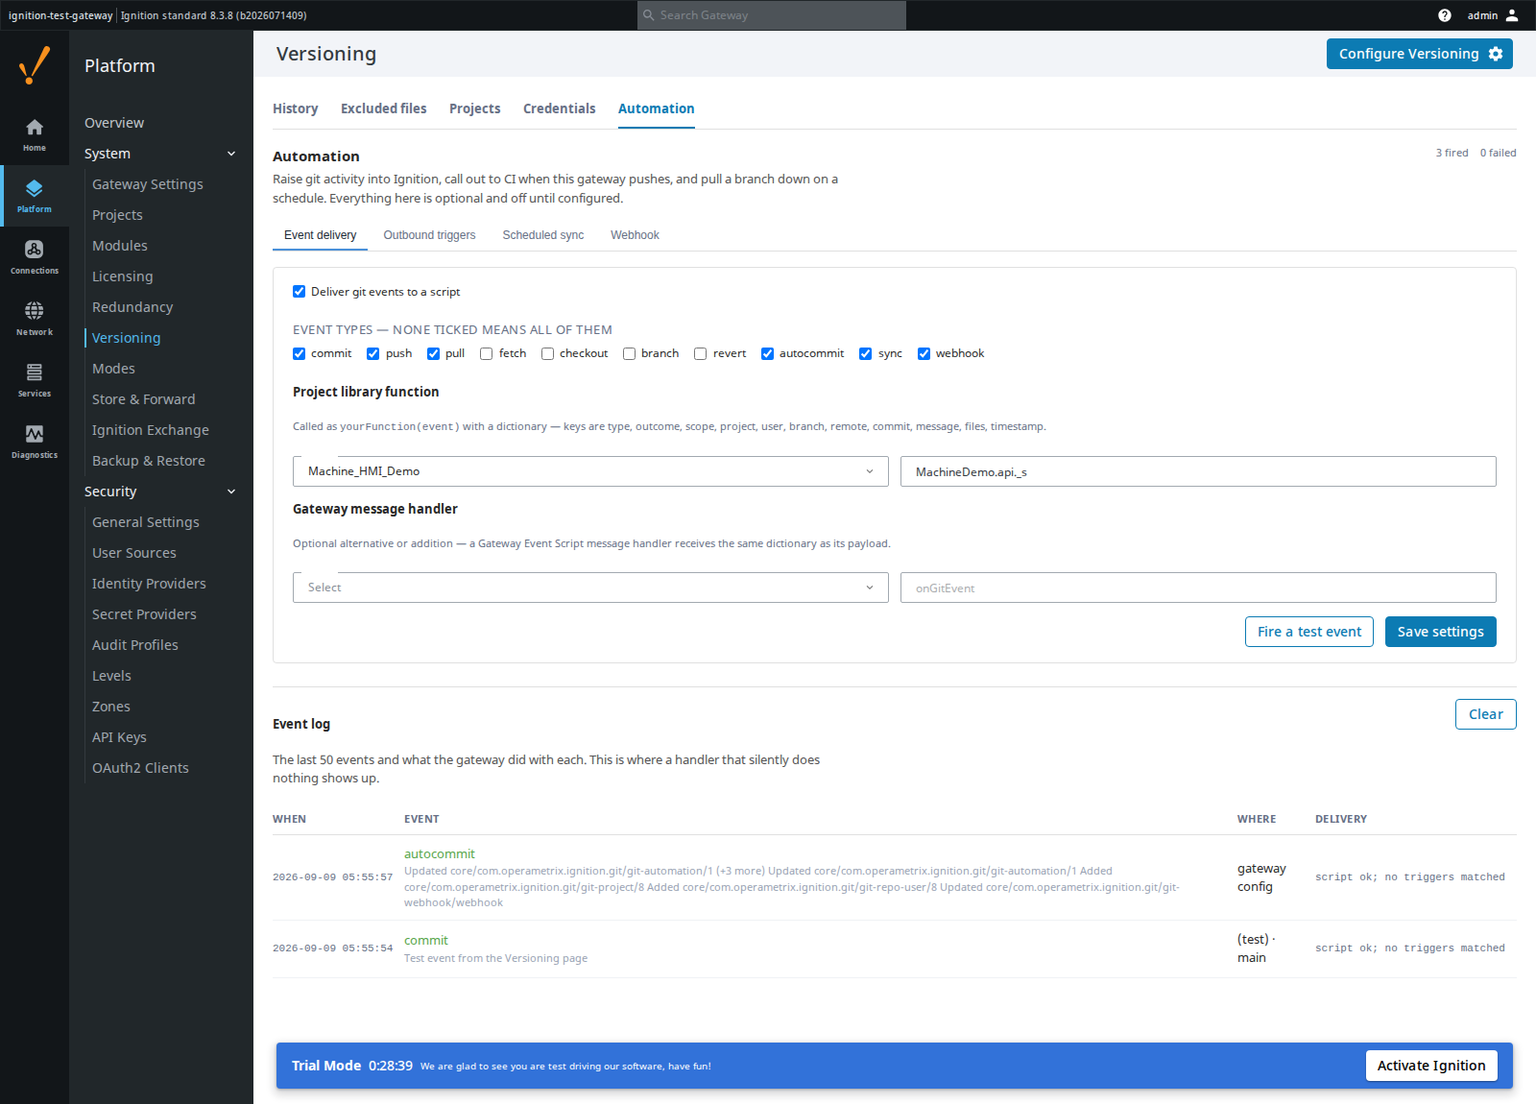
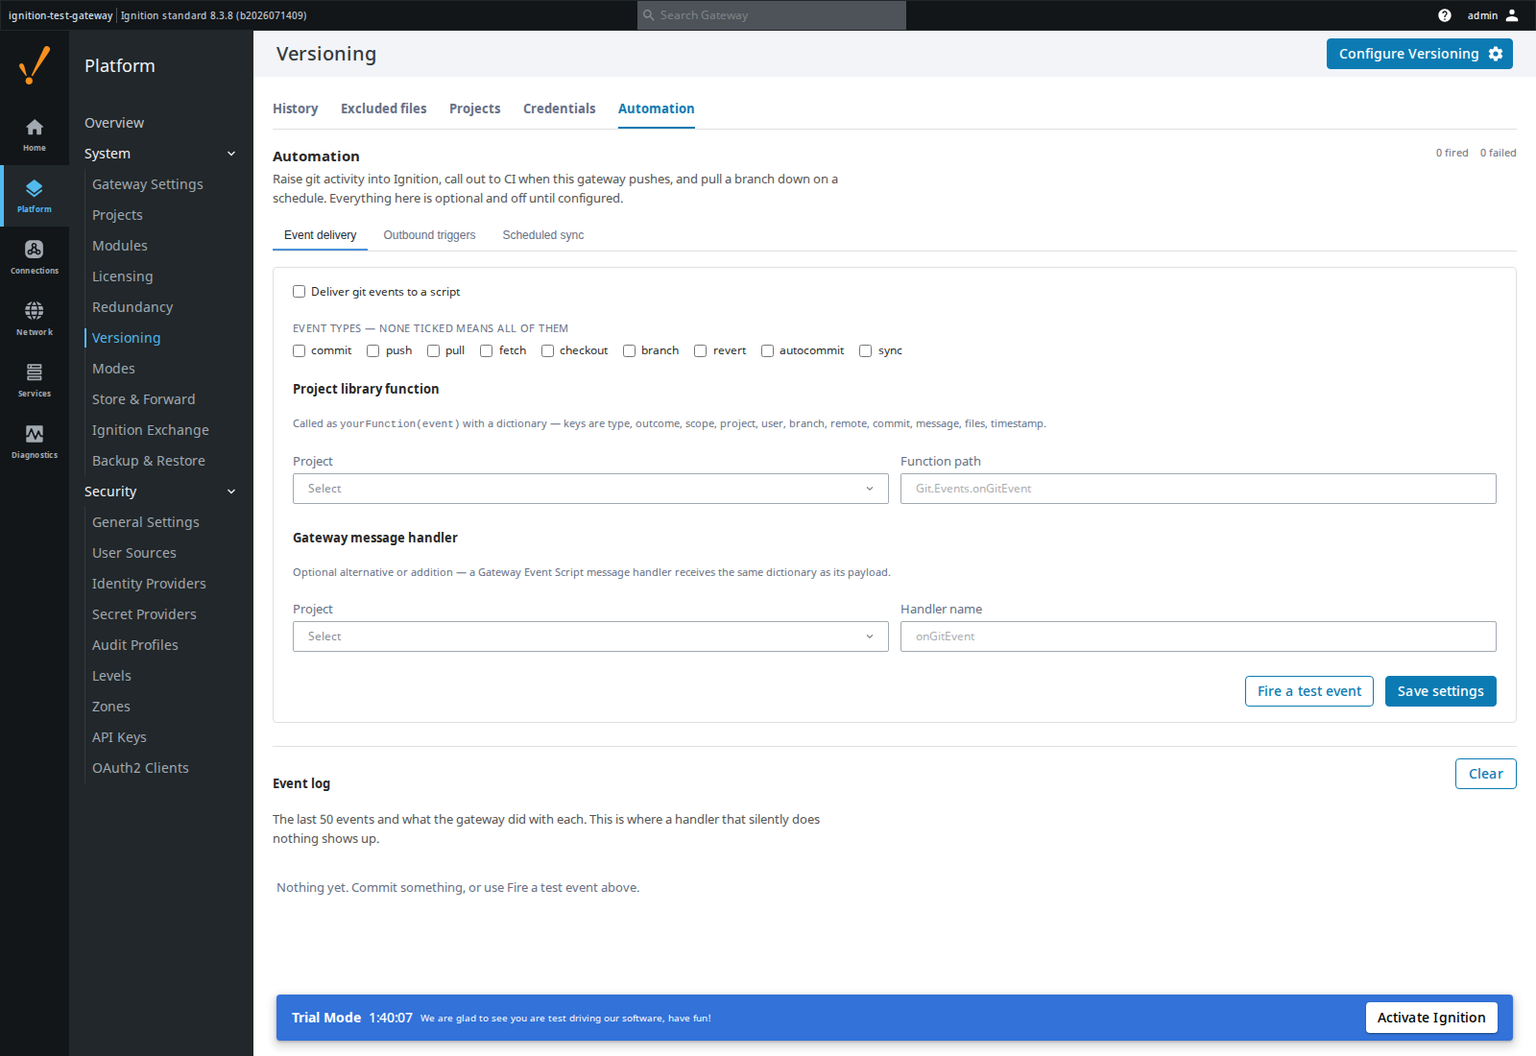
fix(ui): paint the field labels; refresh the README shots and CLAUDE.md
The platform's TextInput/SelectInput/TextArea accept a label and render it only
into MUI's notched-outline legend, which ships at opacity 0 — it is there to cut
the notch, not to be read. Measured on 8.3.8: 27 fields across Credentials,
Projects and Automation had their label in the DOM and nothing on screen, so
what you were typing into came from placeholder text and the prose around it.
Forcing the legend opaque only clips it against the border, so fields.tsx wraps
the three inputs and paints the label above the control. Every existing label=
call site works unchanged; import them from ./fields.

Present since the Credentials and Projects tabs shipped in 2.11.0.

Also: the README's Automation screenshot still showed the Webhook sub-tab and a
webhook event type, both removed in 2.14.0 — recaptured on this build, with
Projects and Excluded files. And CLAUDE.md was two releases stale: six resource
types where there are nine, 16 of 30 routes, and nothing at all about the
automation feature. It now carries the event bus, the delivery-path isolation,
the scheduled sync, why polling is the inbound mechanism, the image-store tree
walk, and the platform-component traps that have caused three page crashes.

Verified on the test gateway: eleven surfaces render, no Application Error, and
labels paint on every form that has fields.

diff --git a/web-ui/src/pages/GitConfig/fields.tsx b/web-ui/src/pages/GitConfig/fields.tsx
@@ -1,0 +1,35 @@
+import React from "react";
+import {
+  SelectInput as BaseSelectInput,
+  TextArea as BaseTextArea,
+  TextInput as BaseTextInput,
+} from "../../webui";
+
+/**
+ * Label-painting wrappers around the platform inputs.
+ *
+ * The platform's TextInput/SelectInput/TextArea accept a `label` and render it ONLY into MUI's
+ * notched-outline legend, which ships at opacity 0 — it is there to cut the notch, not to be
+ * read. Measured on 8.3.8: every bare field on these tabs had its label in the DOM and invisible
+ * on screen, and forcing the legend opaque only clips it against the border.
+ *
+ * These render the label above the control and pass everything else straight through, so every
+ * existing `label=` call site works unchanged. `label` is deliberately NOT forwarded — without it
+ * the notch stays closed and the outline is unbroken.
+ */
+type Props = { label?: React.ReactNode } & Record<string, unknown>;
+
+const labelled = (Base: React.ComponentType<Record<string, unknown>>) =>
+  function Labelled({ label, ...rest }: Props) {
+    if (!label) return <Base {...rest} />;
+    return (
+      <div className="gitcfg-field">
+        <span className="gitcfg-field-label">{label}</span>
+        <Base {...rest} />
+      </div>
+    );
+  };
+
+export const TextInput = labelled(BaseTextInput);
+export const SelectInput = labelled(BaseSelectInput);
+export const TextArea = labelled(BaseTextArea);

diff --git a/web-ui/src/pages/GitConfig/Credentials.tsx b/web-ui/src/pages/GitConfig/Credentials.tsx
@@ -1,13 +1,7 @@
 import React from "react";
-import {
-  Button,
-  Loading,
-  Radio,
-  SelectInput,
-  TextArea,
-  TextInput,
-  useToastNotifications,
-} from "../../webui";
+import { Button, Loading, Radio, useToastNotifications } from "../../webui";
+// Label-painting wrappers — the platform inputs render `label` into an invisible notch legend.
+import { SelectInput, TextArea, TextInput } from "./fields";
 import {
   AddCredentialReq,
   useAddCredentialMutation,

diff --git a/web-ui/src/pages/GitConfig/_styles.scss b/web-ui/src/pages/GitConfig/_styles.scss
@@ -576,3 +576,18 @@
   color: #667085;
   white-space: nowrap;
 }
+
+// A field and its painted label. See fields.tsx: the platform inputs put `label` into MUI's
+// notched-outline legend, which is never drawn, so the label is rendered here instead.
+.gitcfg-field {
+  display: flex;
+  flex-direction: column;
+  gap: 0.2rem;
+  margin-bottom: 0.75rem;
+}
+
+.gitcfg-field-label {
+  color: #667085;
+  font-size: 0.8125rem;
+  line-height: 1.35;
+}

diff --git a/web-ui/src/pages/GitConfig/Automation.tsx b/web-ui/src/pages/GitConfig/Automation.tsx
@@ -1,12 +1,7 @@
 import React from "react";
-import {
-  Button,
-  Loading,
-  SelectInput,
-  TextArea,
-  TextInput,
-  useToastNotifications,
-} from "../../webui";
+import { Button, Loading, useToastNotifications } from "../../webui";
+// Label-painting wrappers — the platform inputs render `label` into an invisible notch legend.
+import { SelectInput, TextArea, TextInput } from "./fields";
 import {
   SyncSetting,
   TriggerRule,

diff --git a/web-ui/src/pages/GitConfig/Projects.tsx b/web-ui/src/pages/GitConfig/Projects.tsx
@@ -1,11 +1,7 @@
 import React from "react";
-import {
-  Button,
-  Loading,
-  SelectInput,
-  TextInput,
-  useToastNotifications,
-} from "../../webui";
+import { Button, Loading, useToastNotifications } from "../../webui";
+// Label-painting wrappers — the platform inputs render `label` into an invisible notch legend.
+import { SelectInput, TextInput } from "./fields";
 import {
   ProjectStatus,
   useGetCredentialsQuery,

diff --git a/CLAUDE.md b/CLAUDE.md
@@ -34,7 +34,7 @@ Scopes: D = Designer, G = Gateway. The Vision client scope is unused — there i
 
 **Hooks** are the per-scope entry points (Ignition `setup`/`startup`/`shutdown`):
 - `DesignerHook` — builds the status bar, the dockable Commit/History panels, and a user-verification timer; talks to the gateway via `GatewayConnection.getRpcInterface(...)`. If `isProjectRegistered()` is false it shows a minimal "Configure" + user-button bar so credentials can be added before init; after init via `InitRepoPopup` it calls `reinitializeAfterSetup()` to build the full bar. A 1-second `panelVisibilityTimer` re-shows the Commit/History panels across workspace switches (checks hidden / null-in-DockingManager / `!isDisplayable()`). Exposes a static `instance` for `GitActionManager` callbacks.
-- `GatewayHook` — registers the six resource types and starts their `NamedResourceHandler`s, runs the one-time legacy SimpleORM→resource importer, and registers the gateway RPC implementation (`getRpcImplementation()`). Also wires the config-as-code feature: registers the React page in the `NavigationModel` (Platform → System → "Versioning"), overrides `getMountPathAlias()` (`git-config`) / `getMountedResourceFolder()` (`mounted`), and mounts the REST routes in `mountRouteHandlers(RouteGroup)`.
+- `GatewayHook` — registers the nine resource types and starts their `NamedResourceHandler`s, runs the one-time legacy SimpleORM→resource importer, and registers the gateway RPC implementation (`getRpcImplementation()`). Also wires the config-as-code feature: registers the React page in the `NavigationModel` (Platform → System → "Versioning"), overrides `getMountPathAlias()` (`git-config`) / `getMountedResourceFolder()` (`mounted`), and mounts the REST routes in `mountRouteHandlers(RouteGroup)`.
 
 **RPC pattern** (8.3 module RPC): `GitScriptInterface` (common) is the contract, annotated `@RpcInterface(packageId="com.operametrix.ignition.git")` and exposing a shared `SERIALIZER`. The serializer is a custom `ProtoRpcSerializer.newBuilder()` instance — `DEFAULT_INSTANCE` has no `Dataset` support, so it registers a Java-serialization `BinaryAdapter` for `Dataset`/`BasicDataset` (`ObjectSerializers.forUnsafeObject`); without it every `Dataset`-returning RPC round-trips empty with no error. `AbstractScriptModule` (common) is a plain abstract base that delegates each interface method to a `…Impl` abstract method, supplied by `GatewayScriptModule` (gateway) — which must `implements GitScriptInterface` *directly* (8.3's `RpcDelegate` discovers `@RpcInterface` only on the concrete class's direct interfaces, no superclass walk). The gateway registers it via `GatewayHook.getRpcImplementation()` → `GatewayRpcImplementation.of(SERIALIZER, scriptModule)`; the Designer obtains a proxy via `GatewayConnection.getRpcInterface(SERIALIZER, "com.operametrix.ignition.git", GitScriptInterface.class)`.
 
@@ -77,7 +77,7 @@ Scopes: D = Designer, G = Gateway. The Vision client scope is unused — there i
   with `FileNotFoundException` — so init could **never** complete on a gateway that was actually
   running. Ignoring `valueStore.idb` alone is not enough; the sidecars are separate paths.
 
-The page is React (8.3 gateway pages are React-only via `NavigationModel`; Wicket config pages are gone, and there is **no** module-accessible API for a global banner-on-all-pages or a dynamic nav badge — verified against `gateway-api-8.3.6`). It talks to the gateway via REST routes mounted in `GatewayHook.mountRouteHandlers` (NOT the RPC interface), under `/data/git-config/…`: `GET /status|/history|/commit-files|/file-diff|/remote|/secret-providers|/tree|/ignore`, `POST /restore|/init|/deinit|/remote|/remote-remove|/remote-test|/push|/ignore`. Reads require `PermissionType.READ`, mutations `WRITE`; the acting author is `RequestContext.getActor()`. The frontend lives in `web-ui/` and is built from the standard `@inductiveautomation/ignition-web-ui` components (`DataGrid`, `Chip`, `Button`, `PageHeader`, `Modal`, `Loading`, `Tooltip`, and the drawer/form set `Drawer`/`DrawerTemplate`/`Card`/`Form`/`FormControlInput`/`Radio`/`SelectInput`/`TextInput`/`TextArea`/`TextAutocomplete`) — imported through `src/webui.ts`, a one-line shim that re-exports them cast to `any` (the package publishes strict internal prop types, e.g. `DataGrid` requires `paginationParams`/`setTableQueryParams` that have runtime defaults; the shim lets us pass only the props we need, mirroring the storybook examples). RTK Query targets a single `BASE` constant in `src/config.ts` (adjust if the live route prefix differs from `/data/git-config`); the base query lazily fetches `/csrf` and attaches the `X-CSRF-Token` header on mutations (the gateway's web-session access control rejects unsafe methods without it). Webpack emits a UMD bundle to `mounted/gitConfig.js`, packed into the gateway jar via `modlImplementation(project(":web-ui"))`, served at `/res/git-config/gitConfig.js`, and mounted as component `GitConfigPage`.
+The page is React (8.3 gateway pages are React-only via `NavigationModel`; Wicket config pages are gone, and there is **no** module-accessible API for a global banner-on-all-pages or a dynamic nav badge — verified against `gateway-api-8.3.6`). It talks to the gateway via REST routes mounted in `GatewayHook.mountRouteHandlers` (NOT the RPC interface), under `/data/git-config/…`. Config-as-code: `GET /status|/history|/commit-files|/file-diff|/remote|/secret-providers|/tree|/ignore`, `POST /restore|/init|/deinit|/remote|/remote-remove|/remote-test|/push|/ignore|/update-from-remote`. Projects and credentials: `GET /projects|/credentials`, `POST /project-init|/project-remote|/project-images|/project-snapshot-images|/credentials|/credential-remove`. Automation: `GET /automation`, `POST /automation|/automation-test|/automation-clear|/trigger|/trigger-remove|/sync|/sync-now`. Reads require `PermissionType.READ`, mutations `WRITE`; the acting author is `RequestContext.getActor()`. The frontend lives in `web-ui/` and is built from the standard `@inductiveautomation/ignition-web-ui` components (`DataGrid`, `Chip`, `Button`, `PageHeader`, `Modal`, `Loading`, `Tooltip`, and the drawer/form set `Drawer`/`DrawerTemplate`/`Card`/`Form`/`FormControlInput`/`Radio`/`SelectInput`/`TextInput`/`TextArea`/`TextAutocomplete`) — imported through `src/webui.ts`, a one-line shim that re-exports them cast to `any` (the package publishes strict internal prop types, e.g. `DataGrid` requires `paginationParams`/`setTableQueryParams` that have runtime defaults; the shim lets us pass only the props we need, mirroring the storybook examples). RTK Query targets a single `BASE` constant in `src/config.ts` (adjust if the live route prefix differs from `/data/git-config`); the base query lazily fetches `/csrf` and attaches the `X-CSRF-Token` header on mutations (the gateway's web-session access control rejects unsafe methods without it). Webpack emits a UMD bundle to `mounted/gitConfig.js`, packed into the gateway jar via `modlImplementation(project(":web-ui"))`, served at `/res/git-config/gitConfig.js`, and mounted as component `GitConfigPage`.
 
 **Project Browser change badges** (`GitChangeBadges`, Gaskony fork 07/09/2026) — resources that are
 changed and not yet committed carry a coloured dot in the Designer's Project Browser: green created,
@@ -117,6 +117,55 @@ row bounds changed nothing. A `DotBorder` sidesteps the delegate: Swing paints a
 the component and its insets reserve the width. Verified across two commit-then-change cycles.
 **Don't "simplify" this back to `addBadge`.**
 
+**Automation** (`gateway/.../automation/`, Gaskony fork 09/09/2026) — git activity drives Ignition.
+Every commit, push, pull, fetch, checkout, branch, revert, config auto-commit and scheduled sync
+raises a `GitEvent`, successes and failures alike. `GitEvents` is the bus: a bounded queue, a single
+daemon thread, a 50-entry ring buffer behind the page's Event log, and a `fire()` that never throws
+or blocks the git operation that called it.
+
+- `ScriptDelivery` builds ONE `PyDictionary` and delivers it to a project-library function and/or a
+  Gateway Event message handler. **Strings go through `Py.newStringOrUnicode`, never
+  `Py.newString`** — the latter throws above 0xFF, so one accented name or curly quote in a commit
+  message stopped the event reaching any handler at all.
+- `TriggerDelivery` posts to a configured URL with `${…}` substitution, `followRedirects(NEVER)` so
+  an Authorization header is never replayed to another host, and the credential injected into a
+  header and never logged.
+- **The two delivery paths are isolated from each other.** They shared one try block, so a payload
+  Jython refused to build meant the outbound trigger never ran either, and the log named only the
+  first failure.
+- `SyncScheduler` fetches on a per-project interval and fast-forwards when the tracked branch moves,
+  then `importProject` + a project scan. It **refuses a dirty working tree** rather than discarding
+  someone's unsaved work, and refuses an unborn repo rather than materialising a project unattended.
+
+**Polling is the inbound mechanism, deliberately.** An inbound GitHub webhook receiver was built in
+2.13.0 and removed in 2.14.0: a webhook is GitHub opening a connection *to* the gateway, and a
+credential cannot create an inbound route — an HTTPS token or SSH key authenticates the gateway
+calling *out*. `docs/AUTOMATION.md` carries the full reasoning. Do not rebuild it without a gateway
+GitHub can actually reach.
+
+**Image snapshot is scoped and merges** (`GitImageManager`) — two things that were both wrong:
+- **`getImages(path)` lists ONE level of the store and returns folders as entries** with a null
+  format and no bytes. The old export iterated the root listing and wrote every entry to disk, so on
+  8.3 it produced a single empty file named after the top folder and exported no image at all
+  (measured on 8.3.8, where the whole root listing is the one entry `Builtin`). It walks the tree
+  now, with depth and entry caps.
+- **Import merges; it never deletes.** The store is gateway-scoped, so clearing it before upload
+  made one project's `images/` authoritative for every other project — a project with no snapshot
+  wiped the platform's ~700 Builtin icons. An image dropped from a project therefore stays on the
+  gateway, which is the deliberate trade.
+
+**The React inputs paint their own labels** (`web-ui/src/pages/GitConfig/fields.tsx`) — the
+platform's `TextInput`/`SelectInput`/`TextArea` accept a `label` and render it only into MUI's
+notched-outline legend, which ships at opacity 0. Every bare field was unlabelled on screen with the
+text present in the DOM. Import those three from `./fields`, not from `../../webui`.
+
+**`Radio` is a radio GROUP**, not one radio: it takes a `radios` array and maps over it. Passing
+`label`/`checked` as if it were a single control reads `.map` on undefined and takes the whole page
+to "Application Error" — that shipped in the Credentials tab from 2.11.0 to 2.13.0. Same family as
+`SelectInput` needing `values` (not `options`), and `SelectInput.onChange` handing back MUI's event
+rather than the value (hence `selectValue.ts`). **Sweep every tab and every form in a browser before
+releasing**; a wrong prop on a platform component is invisible until the page is opened.
+
 **Designer popups** are Swing `JDialog`s parented to the Designer frame (`SwingUtilities.getWindowAncestor(parent)` so they overlay correctly on macOS fullscreen); abstract callbacks are overridden in anonymous subclasses inside `GitActionManager`. Concrete RPC signatures and callback names live in the code — don't duplicate them here.
 - `CommitPopup` — pick changes + message; "Amend last commit" pre-fills the last message and allows message-only amend; double-click a row → diff.
 - `DiffViewerPopup` — side-by-side LCS line diff (green added / red removed, synced scroll); default headers HEAD/Working Tree, overridable (used by `MergeConflictPopup` and `CommitDetailPopup`).
@@ -143,12 +192,15 @@ the component and its insets reserve the width. Verified across two commit-then-
   - **Metadata noise suppression**: `resource.json`/`thumbnail.png` are filtered from the changes list and commit file list when no sibling source file in the same resource dir also changed; applied in `getUncommitedChangesImpl`/`getCommitFilesImpl`.
 - `GitProjectManager` / `GitTagManager` / `GitThemeManager` / `GitImageManager` — project resource import, and gateway-resource snapshot (tags/themes/images) into the project tree. The theme snapshot stages into a system temp dir and only swaps into `themes/` on full success (a mid-copy failure can't destroy committed theme files); tag snapshot bounds the provider read with a 30s timeout.
 
-**Persistence** — six resource types on the 8.3 resource/config system. Each `*Record` class is now a mutable DTO façade over a nested `NamedResourceHandler`: the config is an inner Java `record`, and the resource name is `String.valueOf(numeric id)` so the RPC contract and Designer UI are unchanged (numeric long ids preserved). `GatewayHook` registers a `ResourceTypeMeta` per type and starts the handlers. A one-time `records.legacy.GitLegacyImporter` runs on first 8.3 startup: it registers the old SimpleORM tables' metas via `SchemaUpdater` (using minimal *public top-level* `Legacy*` `PersistentRecord` classes), reads each row, writes it as a resource, deletes the legacy row, and is idempotent (skips if the resource already exists; absent legacy tables on a fresh install are skipped). The six types:
-- `GitProjectsConfigRecord` — project registration marker (`id` + `projectName`). Holds no remote/URI data: `.git/config` is the sole source of truth for remotes. The clone URL is passed as a parameter to `initializeProject` and consumed by `materializeRepo` at registration time; it is never persisted. (Legacy 8.1 rows migrate identity only; their URI is dropped.)
+**Persistence** — nine resource types on the 8.3 resource/config system. Each `*Record` class is now a mutable DTO façade over a nested `NamedResourceHandler`: the config is an inner Java `record`, and the resource name is `String.valueOf(numeric id)` so the RPC contract and Designer UI are unchanged (numeric long ids preserved). `GatewayHook` registers a `ResourceTypeMeta` per type and starts the handlers. A one-time `records.legacy.GitLegacyImporter` runs on first 8.3 startup: it registers the old SimpleORM tables' metas via `SchemaUpdater` (using minimal *public top-level* `Legacy*` `PersistentRecord` classes), reads each row, writes it as a resource, deletes the legacy row, and is idempotent (skips if the resource already exists; absent legacy tables on a fresh install are skipped). The nine types:
+- `GitProjectsConfigRecord` — project registration marker (`id` + `projectName` + `imagePrefix`). `imagePrefix` names the ONE folder of the gateway image store this project versions, and is empty by default, meaning it versions none — see the image-snapshot note below. Holds no remote/URI data: `.git/config` is the sole source of truth for remotes. The clone URL is passed as a parameter to `initializeProject` and consumed by `materializeRepo` at registration time; it is never persisted. (Legacy 8.1 rows migrate identity only; their URI is dropped.)
 - `GitReposUsersRecord` — project↔user registration marker only (commit email comes from the Ignition user profile; auth is via the credential records).
 - `GitRemoteCredentialsRecord` — per (project, user, remote); holds `SshKeyId`/`HttpsCredentialId` FKs into the user-level credential tables.
 - `GitUserSshKeyRecord` — user-level SSH key (`IgnitionUser`, `KeyName`); the key is a `SecretConfig` (`sshKeySecret`) — embedded-encrypted or a Secret-Provider reference, same as the HTTPS password — with the legacy plaintext `sshKey` kept nullable so pre-migration rows still deserialize and upgrade on next save; `getSSHKey()` decrypts/falls-back unchanged for Designer callers. Shared across projects/remotes.
 - `GitConfigRemoteRecord` — gateway-level singleton: the data-dir config repo's remote (URI, branch, credential FK). Manual push only.
+- `GitAutomationRecord` — gateway-level singleton: whether git events are delivered to Jython at all, which event types, and the project-library function and/or Gateway Event message handler they go to.
+- `GitTriggerRecord` — one outbound HTTP rule (event-type/outcome/project/branch filters, URL, method, headers, body template, credential FK and the header the secret is injected into).
+- `GitSyncRecord` — per-project scheduled inbound sync (remote, branch, interval, the Ignition user whose credential authenticates it).
 - `GitUserHttpsCredentialRecord` — user-level HTTPS credential (`IgnitionUser`, `HostPattern`, `UserName`, `Password`). The password is held as a `SecretConfig.embedded(...)`: encrypted on `setPassword` via `GatewayContext.getSystemEncryptionService().encryptToJson(Plaintext)` and decrypted on `getPassword` via `Secret.create(ctx, secretConfig).getPlaintext()`. `HostPattern` is purely an organizational label / disambiguator in the credential picker — auth never matches on it; remotes resolve credentials only via their explicit FK.
 
 ### Key libraries

diff --git a/CHANGELOG.md b/CHANGELOG.md
@@ -3,6 +3,30 @@
 Gaskony builds of the OperaMetrix Git module. Versions up to 2.1.0 are
 upstream's; everything below is this fork.
 
+## [2.15.0] - 2026-09-10
+
+### Fixed
+- **Form fields on the Versioning page had no visible label.** The platform's `TextInput`,
+  `SelectInput` and `TextArea` accept a `label` and render it only into MUI's notched-outline
+  legend, which ships at opacity 0 — it exists to cut the notch, not to be read. Measured on 8.3.8:
+  27 fields across Credentials, Projects and Automation had their label text present in the DOM and
+  invisible on screen, so what you were typing into was inferred from placeholder text and the
+  prose around it. Forcing the legend opaque only clips it against the border, so the label is now
+  painted above the control instead.
+
+  `web-ui/src/pages/GitConfig/fields.tsx` wraps the three inputs and every existing `label=` call
+  site works unchanged — import them from `./fields`, not from `../../webui`. Present since the
+  Credentials and Projects tabs shipped in 2.11.0.
+
+### Documentation
+- **The Automation screenshot in the README showed the Webhook tab**, removed in 2.14.0. Recaptured
+  on this build, along with the Projects and Excluded files screenshots.
+- **`CLAUDE.md` was two releases stale** — it still described six resource types (there are nine),
+  listed 16 of the 30 REST routes, and said nothing about the automation feature at all. It now
+  covers the event bus, the two delivery paths and their isolation, the scheduled sync, why polling
+  is the inbound mechanism, the image-store tree walk and merge, and the platform-component traps
+  that have now caused three separate page crashes.
+
 ## [2.14.0] - 2026-09-09
 
 ### Removed
